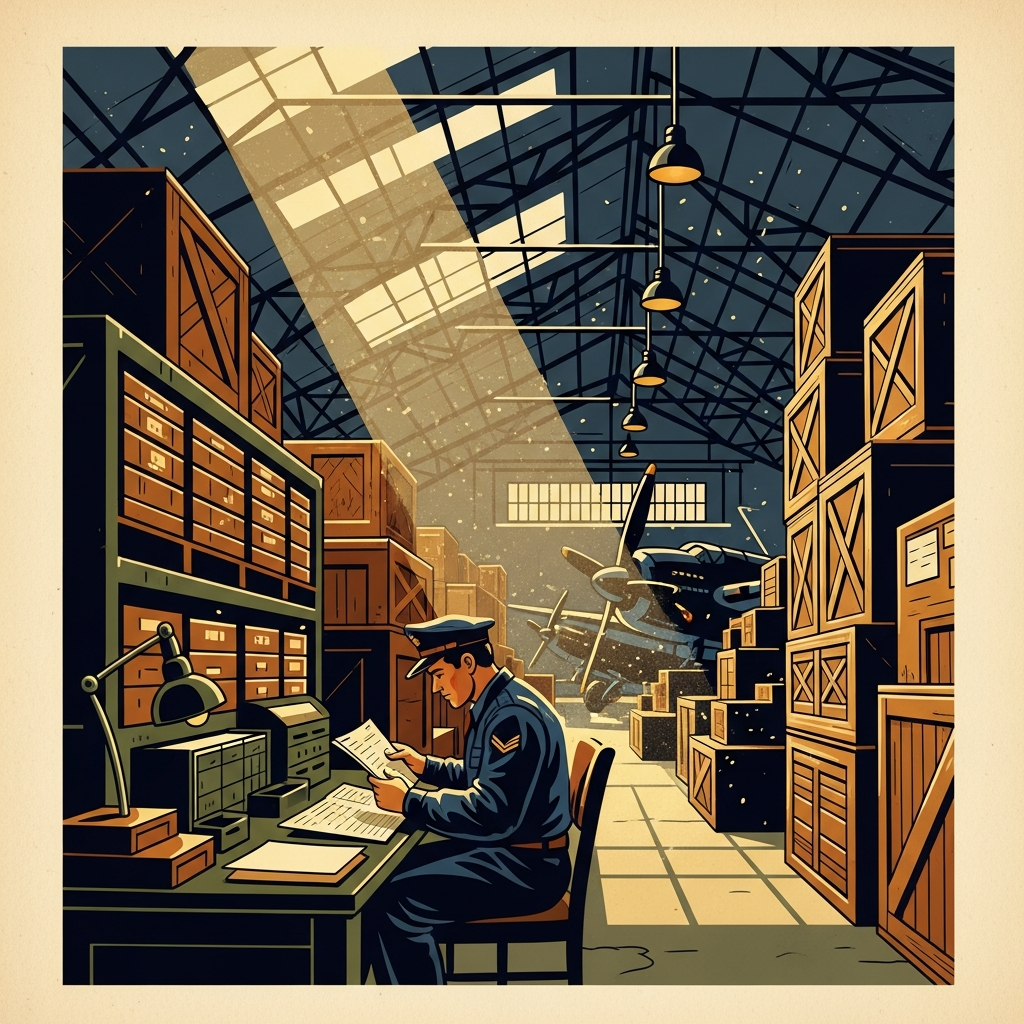
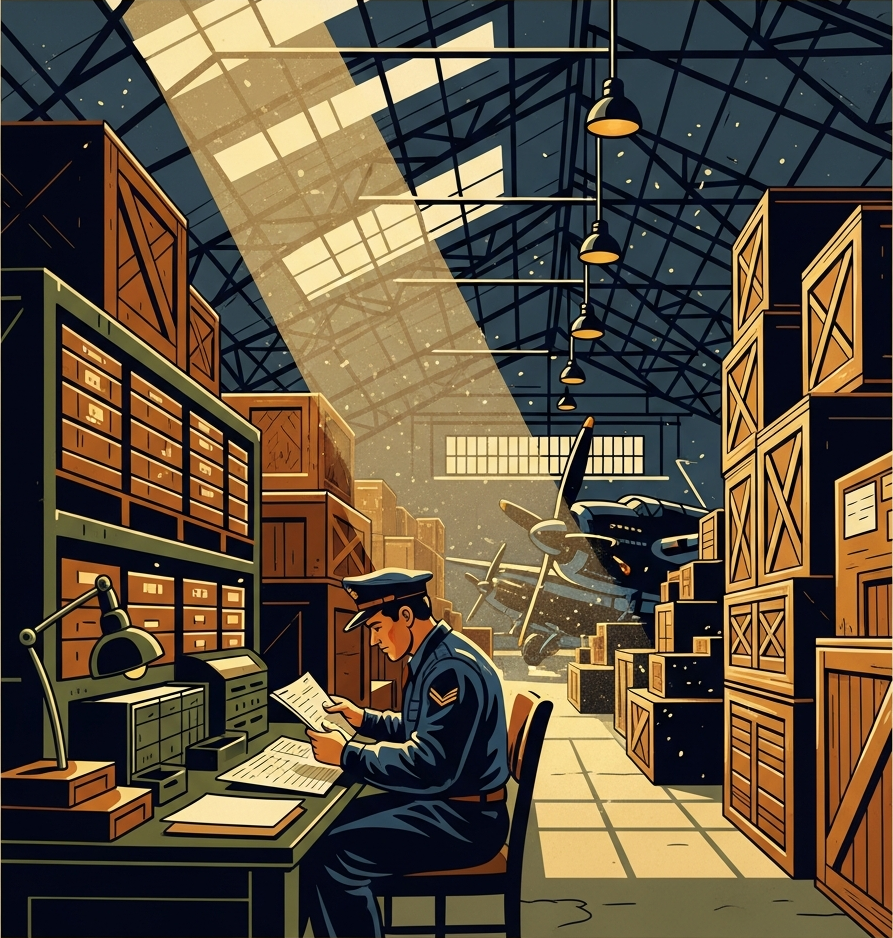
fix: improve shop header image visibility
Crop borders from shop-hangar images (default and v2) so the content
fills the header area. Increase header height to h-40 and lighten the
gradient overlay for better visibility.

diff --git a/src/screens/PlayScreen.tsx b/src/screens/PlayScreen.tsx
@@ -1065,10 +1065,10 @@ function PhaseCard({ title, headerImage, children }: { title: string; headerImag
     <div className="bg-military-800 rounded-lg shadow-lg overflow-hidden">
       {headerImage && (
         <div
-          className="h-24 bg-cover bg-center relative"
+          className="h-40 bg-cover bg-center relative"
           style={{ backgroundImage: `url(${headerImage})` }}
         >
-          <div className="absolute inset-0 bg-gradient-to-b from-military-800/40 to-military-800" />
+          <div className="absolute inset-0 bg-gradient-to-b from-military-800/10 via-transparent to-military-800" />
         </div>
       )}
       <div className="p-6">
